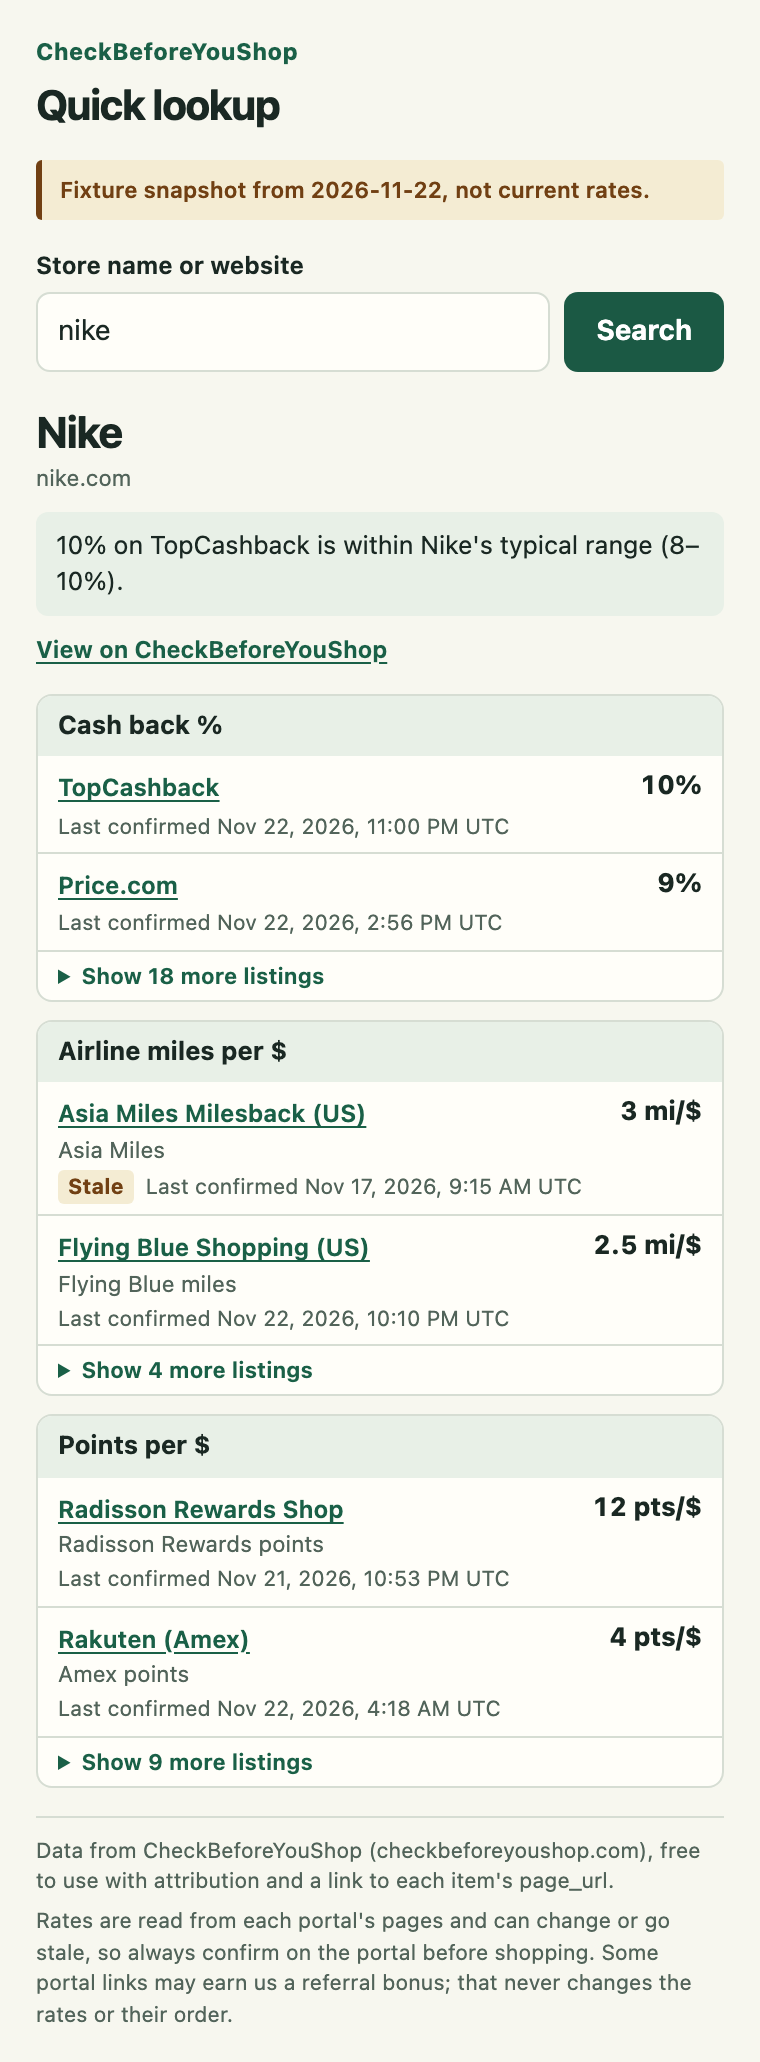
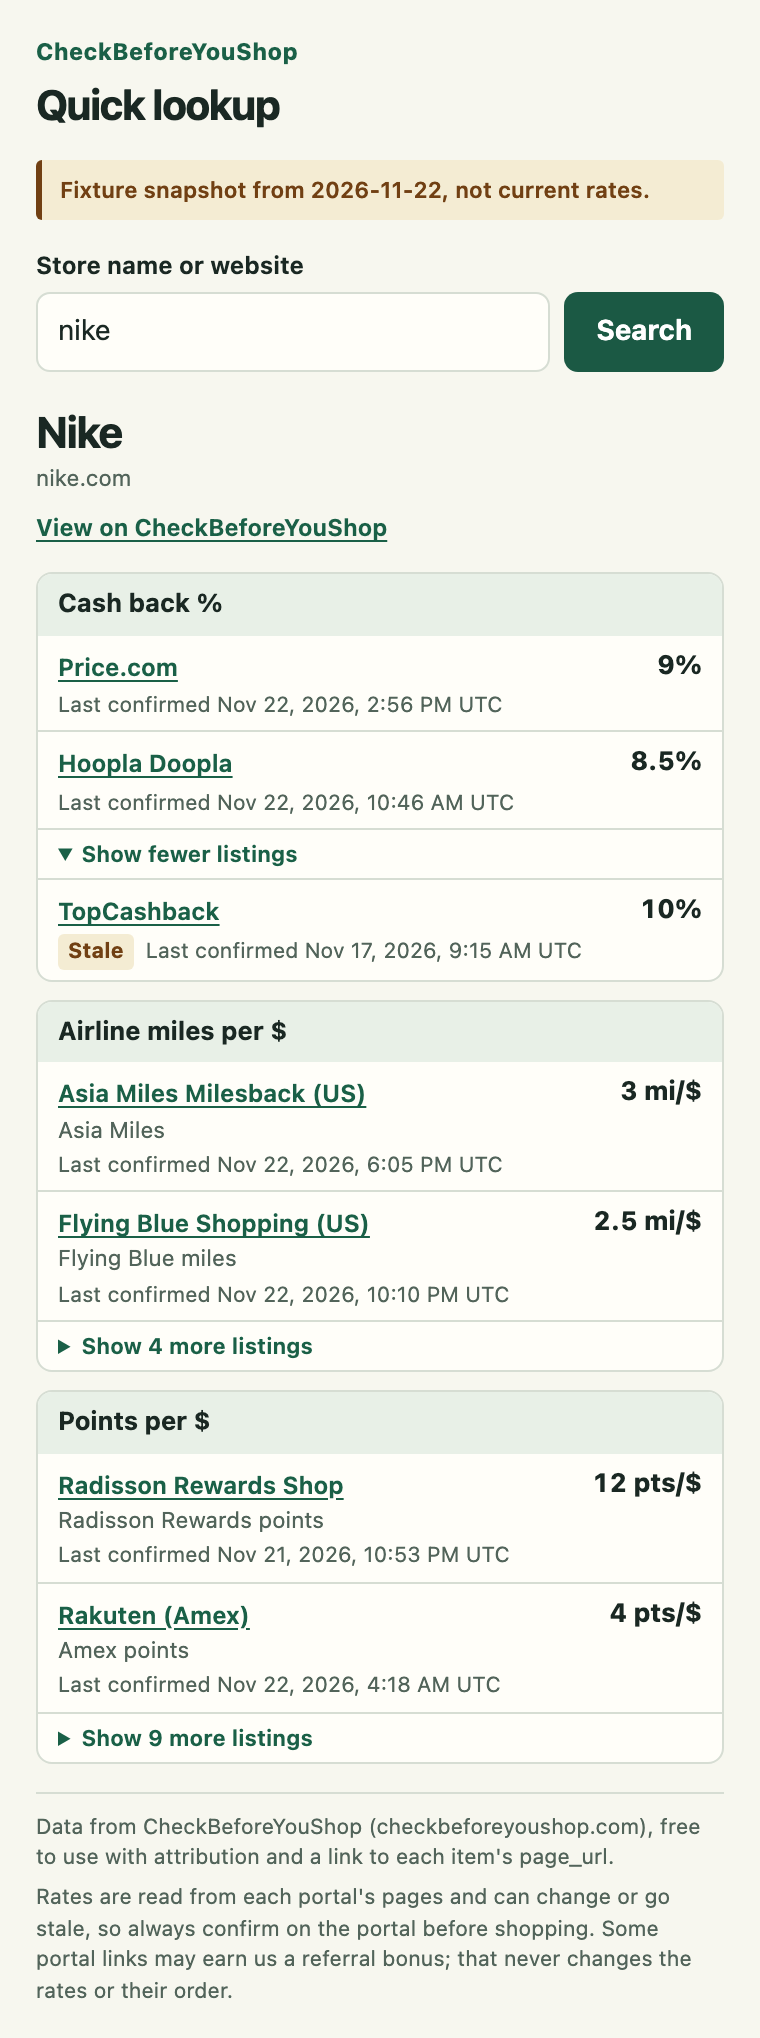
Fix quick lookup rate and verdict presentation

diff --git a/extension/chrome/ui.js b/extension/chrome/ui.js
@@ -4,6 +4,7 @@
   const origin = 'https://checkbeforeyoushop.com';
   const searchPath = (query) => '/api/v1/search.json?q=' + encodeURIComponent(query);
   const merchantPath = (slug) => '/api/v1/merchants/' + encodeURIComponent(slug) + '.json';
+  const noListings = 'No tracked listings returned for this store.';
   const unitLabels = new Map([
     ['earn_rate:pct_cash', 'Cash back %'],
     ['earn_rate:miles_per_dollar', 'Airline miles per $'],
@@ -50,6 +51,20 @@
       Boolean(store.domain && normalizeHost(store.domain) === normalizeHost(query));
   }
 
+  function formatCategoryRate(value, unit) {
+    const number = value.toFixed(2).replace(/\.0+$|(\.\d*?)0+$/, '$1');
+    switch (unit) {
+      case 'pct_cash': return number + '%';
+      case 'miles_per_dollar': return number + ' mi/$';
+      case 'points_per_dollar': return number + (number === '1' ? ' pt/$' : ' pts/$');
+      case 'cents_per_gallon': return number + '¢/gal';
+      case 'flat_cash': return '$' + number;
+      case 'flat_miles': return value.toLocaleString('en-US') + (value === 1 ? ' mile' : ' miles');
+      case 'flat_points': return value.toLocaleString('en-US') + (value === 1 ? ' pt' : ' pts');
+      default: return number + ' ' + unit;
+    }
+  }
+
   function renderRate(rate) {
     const row = element('li', 'rate');
     const portal = externalLink(rate.portal_name, rate.go_url, '/go/', 'portal');
@@ -77,7 +92,8 @@
 
     row.append(label, amount, check);
     if (rate.is_up_to && rate.best_category_value != null && rate.best_category_label) {
-      row.append(element('div', 'confirmation', 'Confirmed category · ' + rate.best_category_label));
+      const categoryRate = formatCategoryRate(rate.best_category_value, rate.rate_unit);
+      row.append(element('div', 'confirmation', ['Confirmed category', rate.best_category_label, categoryRate].join(' · ')));
     }
     return row;
   }
@@ -105,6 +121,7 @@
       heading.id = 'rates-' + sections.childElementCount;
       section.setAttribute('aria-labelledby', heading.id);
       rows.sort((a, b) =>
+        Number(Boolean(a.is_stale)) - Number(Boolean(b.is_stale)) ||
         (b.best_category_value ?? b.rate_value) - (a.best_category_value ?? a.rate_value) ||
         Number(a.is_up_to) - Number(b.is_up_to),
       );
@@ -183,11 +200,16 @@
       const { merchant, verdict, rates } = envelope.data;
       const intro = element('div', 'store-intro');
       if (merchant.domain) intro.append(element('p', 'domain', merchant.domain));
-      if (verdict?.headline) intro.append(element('p', 'verdict', verdict.headline));
+      if (verdict?.headline || verdict?.caveats?.length) {
+        const card = element('div', 'verdict');
+        if (verdict.headline) card.append(element('p', '', verdict.headline));
+        for (const caveat of verdict.caveats ?? []) card.append(element('p', '', caveat));
+        intro.append(card);
+      }
       intro.append(externalLink('View on CheckBeforeYouShop', merchant.page_url, '/m/', 'view-store'));
       const content = rates.length
         ? renderGroups(rates)
-        : element('p', 'empty', 'No tracked portal listings were returned.');
+        : element('p', 'empty', noListings);
       cite(envelope);
       show(merchant.name, [intro, content], focusFrom);
     }
@@ -224,11 +246,11 @@
       }
     }
 
-    async function loadStore(slug, signal, focusFrom) {
-      const response = await request(merchantPath(slug), signal);
+    async function loadStore(store, signal, focusFrom) {
+      const response = await request(merchantPath(store.slug), signal);
       if (signal.aborted) return;
       if (response.status === 404) {
-        show('No tracked store found', [element('p', 'empty', 'Try another name or website.')], focusFrom);
+        show(store.name, [element('p', 'empty', noListings)], focusFrom);
         return;
       }
       if (response.status !== 200) throw new Error('Merchant lookup failed');
@@ -246,7 +268,7 @@
         choice.addEventListener('click', (event) => {
           if (event.metaKey || event.ctrlKey || event.shiftKey || event.altKey) return;
           event.preventDefault();
-          run(choice, (signal) => loadStore(store.slug, signal, choice));
+          run(choice, (signal) => loadStore(store, signal, choice));
         });
         item.append(choice);
         list.append(item);
@@ -276,7 +298,7 @@
         const exact = stores.filter((store) => exactMatch(store, query));
         cite(response.body);
         if (exact.length === 1) {
-          await loadStore(exact[0].slug, signal, focusFrom);
+          await loadStore(exact[0], signal, focusFrom);
           return;
         }
         if (exact.length === 0 && resolveSlug) {

diff --git a/extension/chrome/ui.css b/extension/chrome/ui.css
@@ -22,6 +22,7 @@
     --ink: #eef4e9;
     --muted: #afc1b3;
     --line: #394b41;
+    --input-border: #6d8877;
     --accent: #a4dbb9;
     --button: #b6e4c6;
     --on-button: #153326;
@@ -95,7 +96,7 @@ button, input { font: inherit; }
   padding: 7px 10px;
   color: var(--ink);
   background: var(--panel);
-  border: 1px solid var(--line);
+  border: 1px solid var(--input-border, var(--line));
   border-radius: 7px;
 }
 
@@ -127,6 +128,8 @@ button, input { font: inherit; }
   font-size: .9rem;
   line-height: 1.42;
 }
+
+.verdict p + p { margin-top: 5px; color: var(--muted); }
 
 .view-store {
   display: inline-block;

diff --git a/extension/README.md b/extension/README.md
@@ -21,7 +21,7 @@ The extension runs as shipped, with no build step or runtime dependencies. Distr
 
 A unique exact slug, name, or domain match opens directly. A partial match or a shared domain prompts you to choose a store, even if there is only one partial match. The API search returns up to 25 results, including portals, which the popup filters out. A tracked store may have no listing for a particular portal.
 
-Each group shows rates in their original units, with one-time bonuses in their own groups. Within a group, an exact rate sorts ahead of an equal “up to” rate. When the API provides a supported category value, the ordering uses that value and the row still shows the advertised maximum. Each listing shows its own last confirmation in UTC. Stale rows carry a visible label. Store links, attribution, and disclosure come from the API.
+Each group shows rates in their original units, with one-time bonuses in their own groups. Fresh listings appear before stale ones. For listings with the same freshness and value, an exact rate appears ahead of an “up to” rate. When the API provides a supported category rate, the popup shows it alongside the advertised maximum and uses the category rate for sorting. Each listing shows its own last confirmation in UTC. Stale rows carry a visible label. Verdict caveats appear below the headline. Store links, attribution, and disclosure come from the API.
 
 ## Offline demo
 
@@ -42,7 +42,7 @@ npm test
 npm run screenshots
 ```
 
-Playwright checks the demo over `file://` and opens the installed extension from Chromium's toolbar in a persistent headless context. The extension test intercepts network requests and serves committed fixtures, including replaying captured results for a domain search and a slug lookup. The stale screenshot uses a synthetic timestamp and stale flag on one listing.
+Playwright checks the demo over `file://` and opens the installed extension from Chromium's toolbar in a persistent headless context. The extension test intercepts network requests and serves committed fixtures, including replaying captured results for a domain search and a slug lookup. The stale screenshot uses a synthetic stale flag and timestamp on Nike's TopCashback listing. The caveat screenshot uses synthetic verdict caveats.
 
 | Nike, light | Nike, dark |
 | --- | --- |
@@ -51,3 +51,5 @@ Playwright checks the demo over `file://` and opens the installed extension from
 | ![Store picker for American](screenshots/popup-ambiguous.png) | ![Square with three one-time bonus groups](screenshots/popup-square-bonuses.png) |
 | **No tracked store** | **Stale listing** |
 | ![No tracked store found](screenshots/popup-not-found.png) | ![Nike with a synthetic stale listing](screenshots/popup-stale.png) |
+| **Verdict caveats** | |
+| ![Nike with synthetic verdict caveats](screenshots/popup-caveat.png) | |
